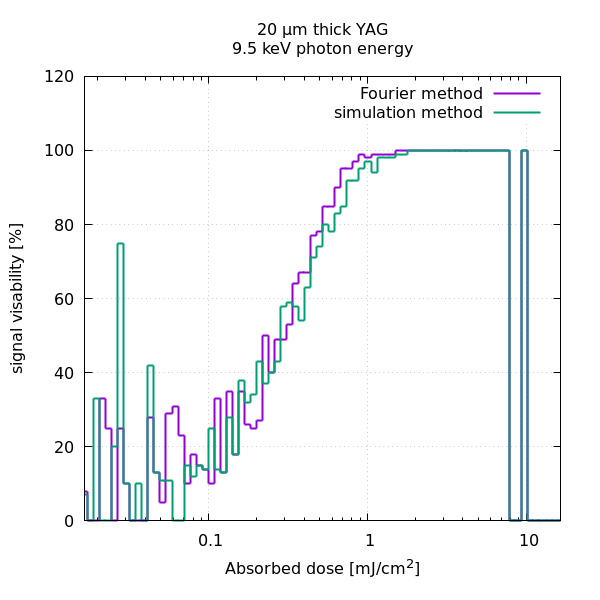
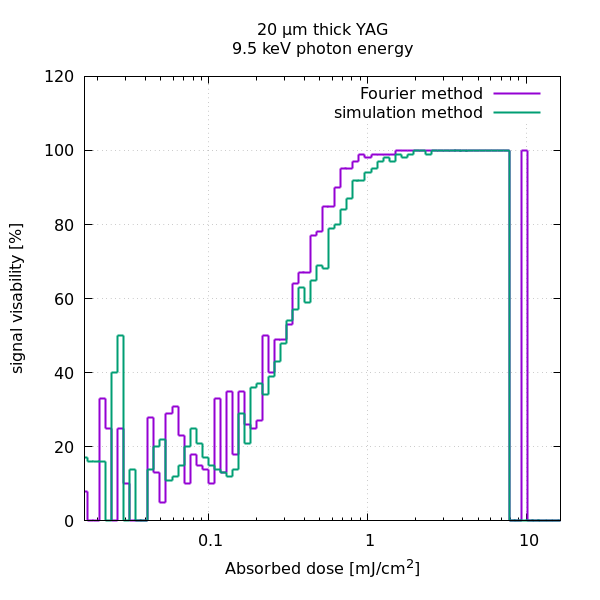
incremental
changed the goodpct files output to stacked columns
inorder to enable errorbars

diff --git a/src/findedges.py b/src/findedges.py
@@ -129,7 +129,7 @@ def main():
     	    delbin = int(m.group(6))
     	    imax = max(imax,ipmbin)
     	    dmax = max(dmax,delbin)
-    	    if nshots>3: # more than 10 spectra in a given delay and ipm 2D-bin
+    	    if nshots>1: # more than 10 spectra in a given delay and ipm 2D-bin
                 I = I + [ipmbin]
                 D = D + [delbin]
                 C = C + [nshots]
@@ -168,7 +168,8 @@ def main():
                 (indsvals_p,indsvals_n) = (out_p[inds_p,rows].astype(int),out_n[inds_n,rows].astype(int))
                 filename = fullname + '.matderivative.indsvals'
                 np.savetxt(filename,np.column_stack((inds_p,indsvals_p,inds_n,indsvals_n)),fmt='%i')
-                #ipGderiv = ipGderiv + [100*len([i for i in indsvals[:,0] if (i>12 and i<17)])/indsvals.shape[0]]
+                #G = G + [100*len([i for i in inds_p if (i>12 and i<17)])/inds_p.shape[0]]
+                G = G + [100*np.sum((inds_p>12)*(inds_p<17))/inds_p.shape[0]]
                 window=2
                 ipGderiv = ipGderiv + [100*np.sum(np.abs(inds_p-inds_n)<window)/inds_p.shape[0]]
 
@@ -197,20 +198,15 @@ def main():
                 G = G + [100*len([i for i in inds if (i>300 and i<550)])/len(inds)]
                 """
     
-    CMAT = sparse.coo_matrix((C,(D,I)),shape=(dmax+1,imax+1)).toarray()
-    filename='./data_fs/processed/%s_%s_count_mat.hist' % (expname,runnum)
-    np.savetxt(filename,CMAT,fmt='%i')
-    print(CMAT.T)
-    #GMAT = sparse.coo_matrix((G,(D,I)),shape=(dmax+1,imax+1)).toarray()
-    #filename='./data_fs/processed/%s_%s_goodpct_mat.hist' % (expname,runnum)
-    #np.savetxt(filename,GMAT,fmt='%i')
-    ipGMAT = sparse.coo_matrix((ipG,(D,I)),shape=(dmax+1,imax+1)).toarray()
+    GMAT = np.column_stack((I,D,G,C))
+    filename='./data_fs/processed/%s_%s_goodpct_mat.hist' % (expname,runnum)
+    np.savetxt(filename,GMAT,fmt='%i')
+    ipGMAT = np.columnstack((I,D,ipG,C))
     filename='./data_fs/processed/%s_%s_goodpct_mat_ip.hist' % (expname,runnum)
     np.savetxt(filename,ipGMAT,fmt='%i')
-    ipGderivMAT = sparse.coo_matrix((ipGderiv,(D,I)),shape=(dmax+1,imax+1)).toarray()
+    ipGderivMAT = np.column_stack((I,D,ipGderiv,C))
     filename='./data_fs/processed/%s_%s_goodpct_mat_ipderiv.hist' % (expname,runnum)
     np.savetxt(filename,ipGderivMAT,fmt='%i')
-    print(ipGderivMAT.T)
     return
 
 if __name__ == '__main__':

diff --git a/notes/pet.md b/notes/pet.md
@@ -1,0 +1,9 @@
+## SPADs for imaging  
+
+http://www.everyphotoncounts.com/instr-imager2d.php  
+
+Maybe this is can help for the signal level of the very weak high rep-rate laser continuum  
+
+
+
+
